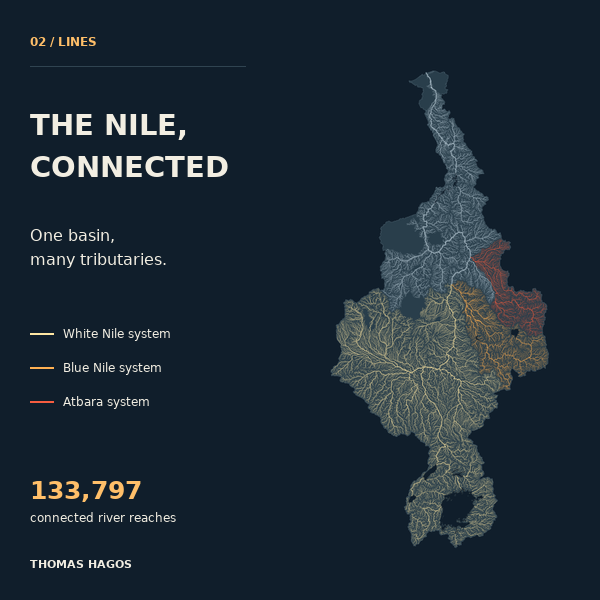
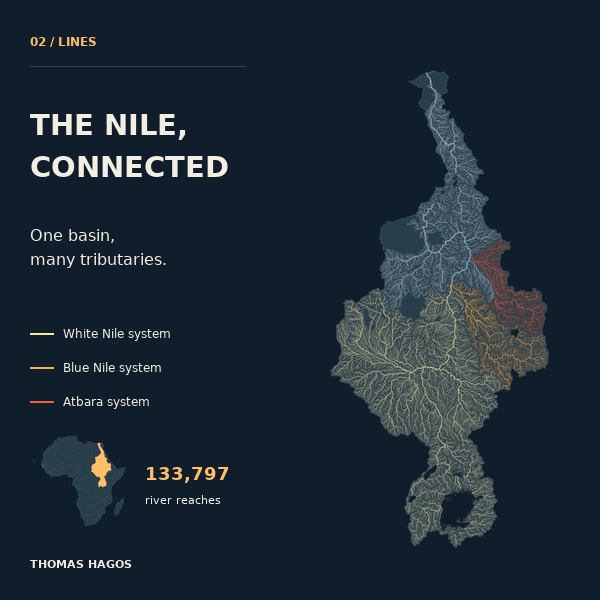
Update Nile portfolio with continental locator edition

Changed region(s): [[0.06, 0.72, 0.39, 0.87]]

diff --git a/_projects/01-nile-connected.md b/_projects/01-nile-connected.md
@@ -10,13 +10,13 @@ thumbnail: /assets/maps/nile/02-thomas-hagos.png
 **One basin, many tributaries.**<br>
 30-Day Map Challenge · Day 2: Lines · November 2026
 
-I followed the Nile upstream: through Sudan, into the Ethiopian highlands and the equatorial lake catchments. I wanted the branching network to be the subject of this map.
+I followed the Nile upstream: through Sudan, into the Ethiopian highlands and the equatorial lake catchments. An Africa locator places the basin on the continent. Labels identify the equatorial and Ethiopian headwater regions and the Mediterranean outlet.
 
 The map contains 133,797 connected river reaches from HydroRIVERS. Pale gold traces the White Nile system, amber the Blue Nile system, and coral the Atbara system. The remaining connected Nile network is blue-gray. The navy background, cream type and warm accents continue the style of my Day 1 map, The Restless Earth. Line thickness follows Strahler stream order.
 
 [Open the project and full-resolution map](https://flex-commits.github.io/30-days-mapping/nile/) · [Code and sources](https://github.com/Flex-commits/30-days-mapping/tree/main/day02-nile)
 
-![The Nile connected river network](https://flex-commits.github.io/30-days-mapping/nile/nile-connected.png)
+![The Nile connected river network](https://flex-commits.github.io/30-days-mapping/nile/nile-connected.png?v=20261103-context)
 
 ## How I made it
 
